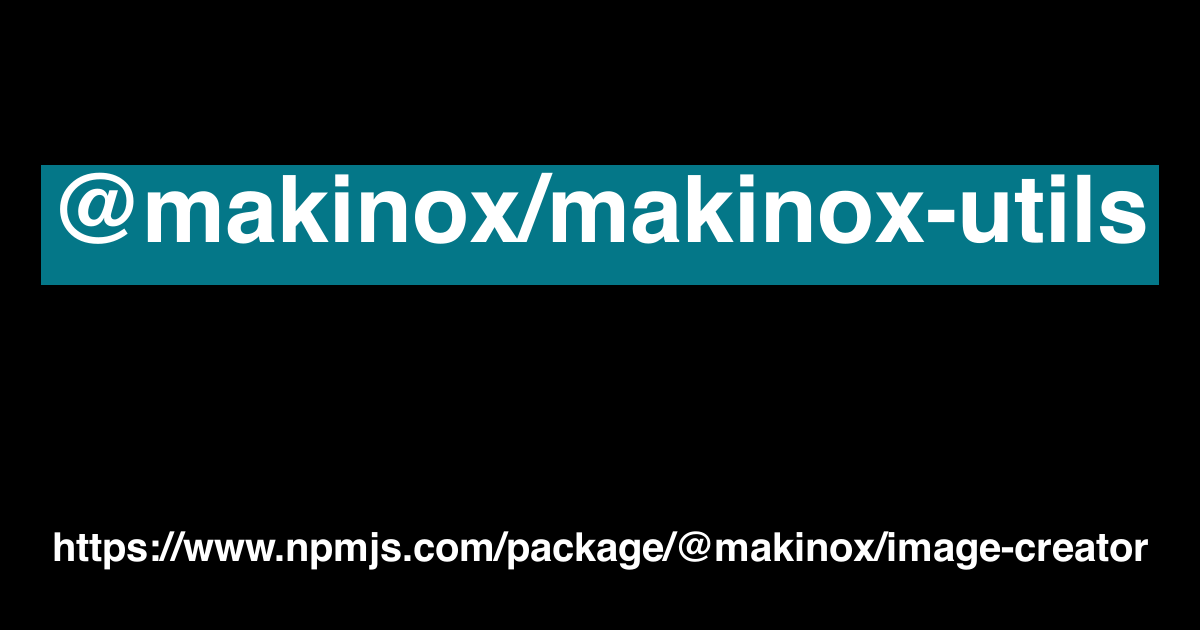
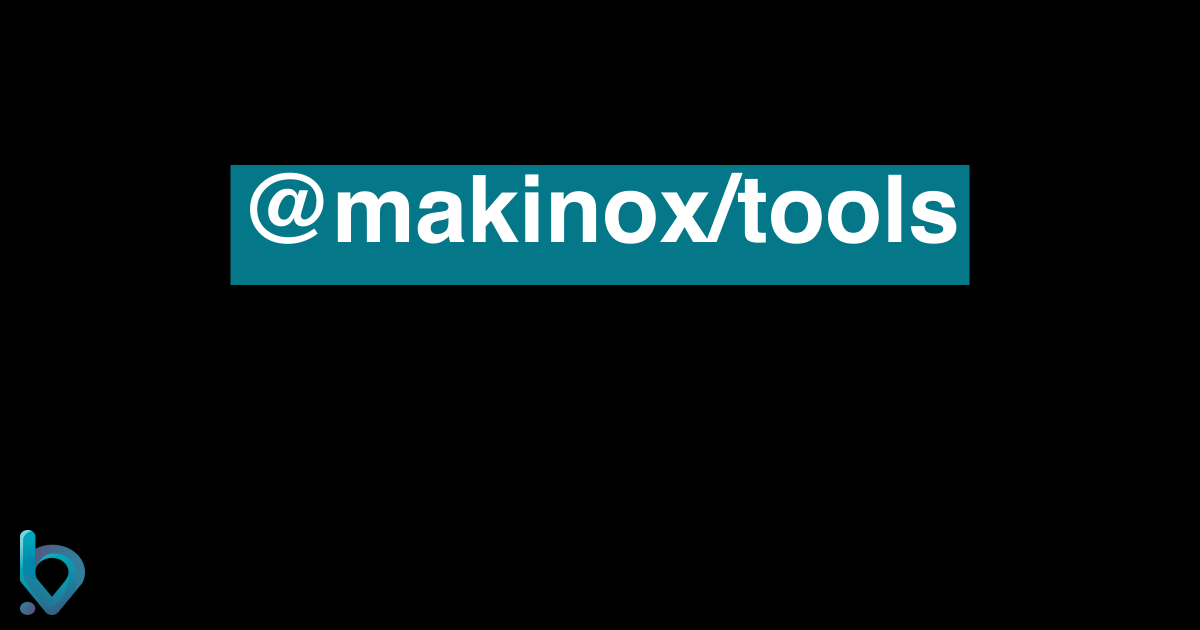
chore: update makinox tools

Changed region(s): [[0.0308, 0.2413, 0.9867, 0.4524], [0.0, 0.8444, 0.9558, 0.9952]]

diff --git a/src/containers/Projects/Projects.mock.ts b/src/containers/Projects/Projects.mock.ts
@@ -209,14 +209,14 @@ export default [
     status: 'Library',
   },
   {
-    subtitle: 'Makinox-utils',
+    subtitle: 'Makinox-tools',
     description: 'exp.sub1',
-    ref: 'https://github.com/makinox/makinox-utils',
-    repo: 'https://github.com/makinox/makinox-utils',
-    app: 'https://www.npmjs.com/package/@makinox/makinox-utils',
+    ref: 'https://github.com/makinox/tools',
+    repo: 'https://github.com/makinox/tools',
+    app: 'https://www.npmjs.com/package/@makinox/tools',
     imgName: 'img28',
     imgAlt: 'Makinox-utils libreria por Jesus bossa',
-    techList: ['Typescript'],
+    techList: ['Rust', 'Web Assembly'],
     status: 'Library',
   },
   {
